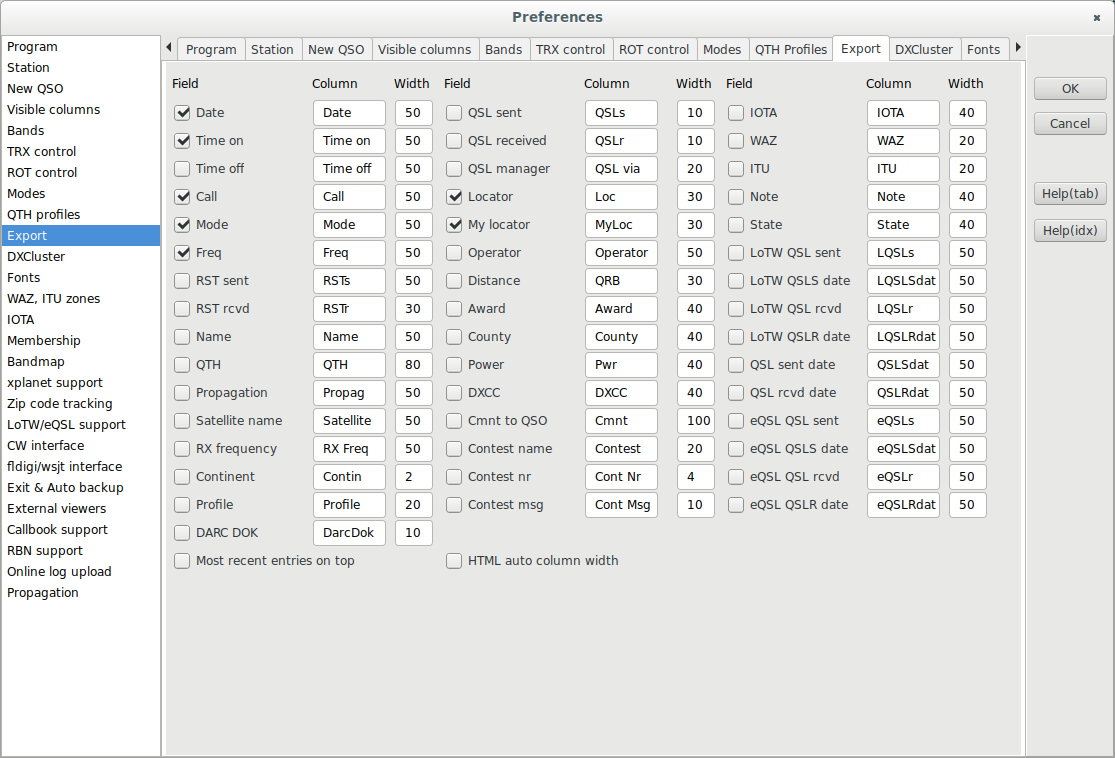
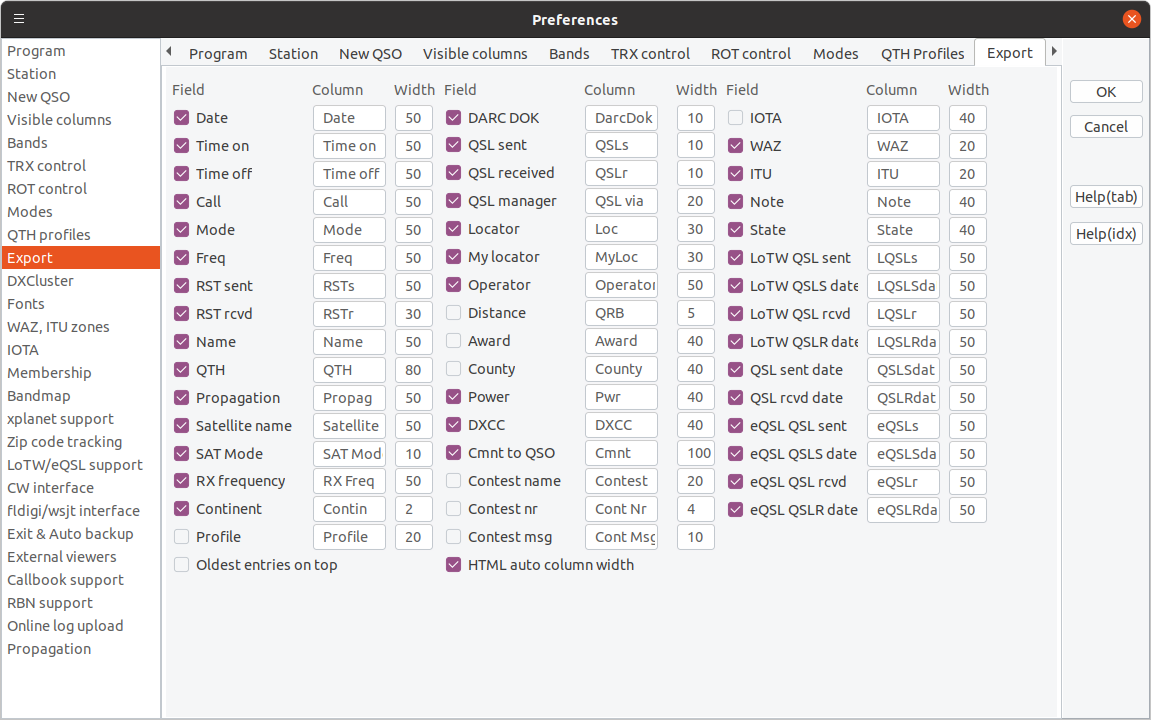
Calculate SAT mode from freq and RX freq. Used in eqsl.cc upload and ADIF/HTML exports

diff --git a/help/h1.html b/help/h1.html
@@ -311,6 +311,7 @@ for each operation.
 This option allows an easy setup of the log fields to be exported into ADIF or HTML format.
 Only checked fields are exported. The 'Column' option names columns at header line. 'Width' option denotes the column width in approx. count of 16px characters. 
 Both options affect only for the HTML export. 
+<br>The SAT mode field is not stored in the database but instead calculated on the fly from frequency and RX frequency and for SAT QSOs only.
 <br>Width setting is ignored if "HTML auto column width" is checked when longest text in column (column name or data) sets the column width.
 <br>Distances are not exported when doing log backup at cqlog closing phase. They will be calculated and exported (if selected) in ADIF, HTML and QSL label printing.
  Calculation of distances requires that preferences/station/locator is set and applied (automatic) to every qso and that at least 4 digit locator
